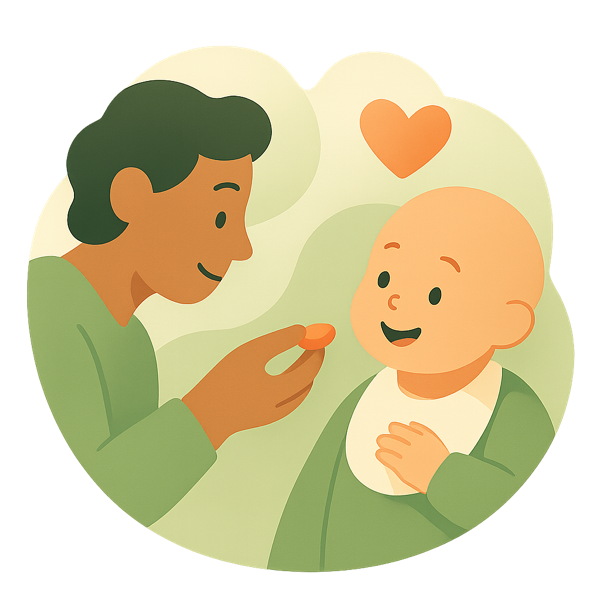
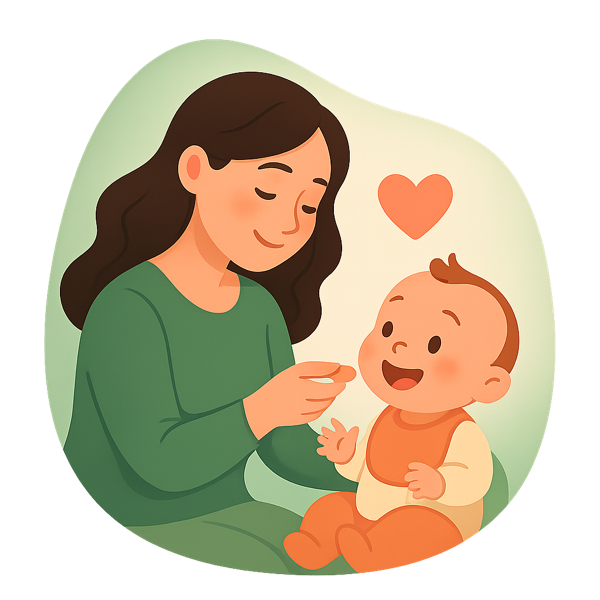
chore: bump build para 1.2.0+21
- allergens_hero asset otimizado
- registra plugin StoreKit no macOS GeneratedPluginRegistrant

diff --git a/blw/macos/Flutter/GeneratedPluginRegistrant.swift b/blw/macos/Flutter/GeneratedPluginRegistrant.swift
@@ -6,6 +6,7 @@ import FlutterMacOS
 import Foundation
 
 import file_selector_macos
+import in_app_purchase_storekit
 import in_app_review
 import share_plus
 import shared_preferences_foundation
@@ -13,6 +14,7 @@ import url_launcher_macos
 
 func RegisterGeneratedPlugins(registry: FlutterPluginRegistry) {
   FileSelectorPlugin.register(with: registry.registrar(forPlugin: "FileSelectorPlugin"))
+  InAppPurchasePlugin.register(with: registry.registrar(forPlugin: "InAppPurchasePlugin"))
   InAppReviewPlugin.register(with: registry.registrar(forPlugin: "InAppReviewPlugin"))
   SharePlusMacosPlugin.register(with: registry.registrar(forPlugin: "SharePlusMacosPlugin"))
   SharedPreferencesPlugin.register(with: registry.registrar(forPlugin: "SharedPreferencesPlugin"))